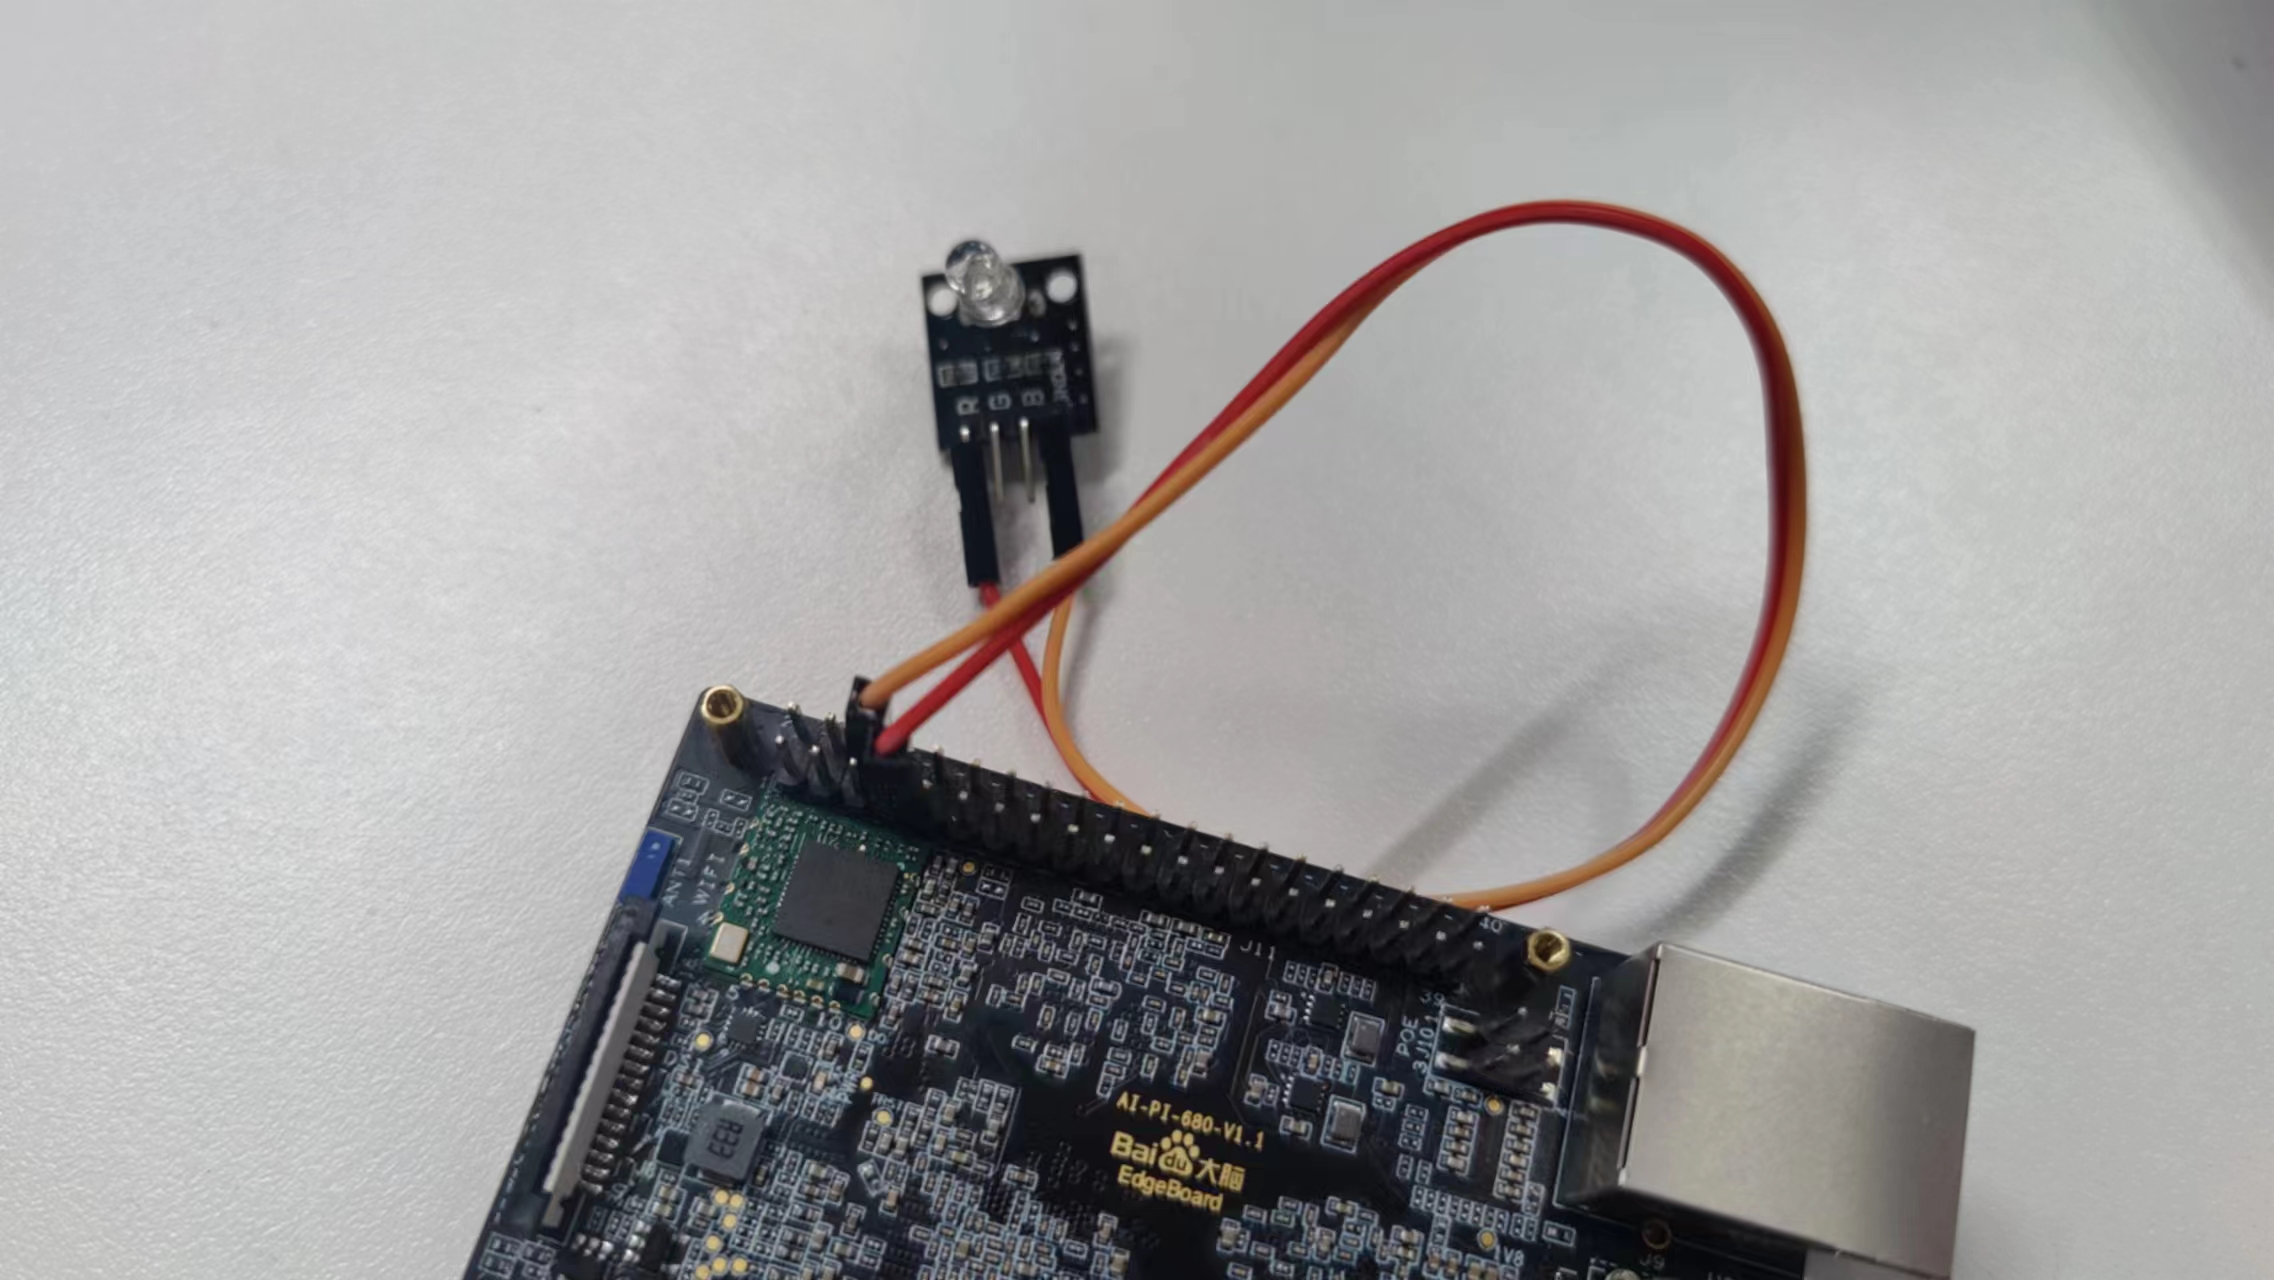
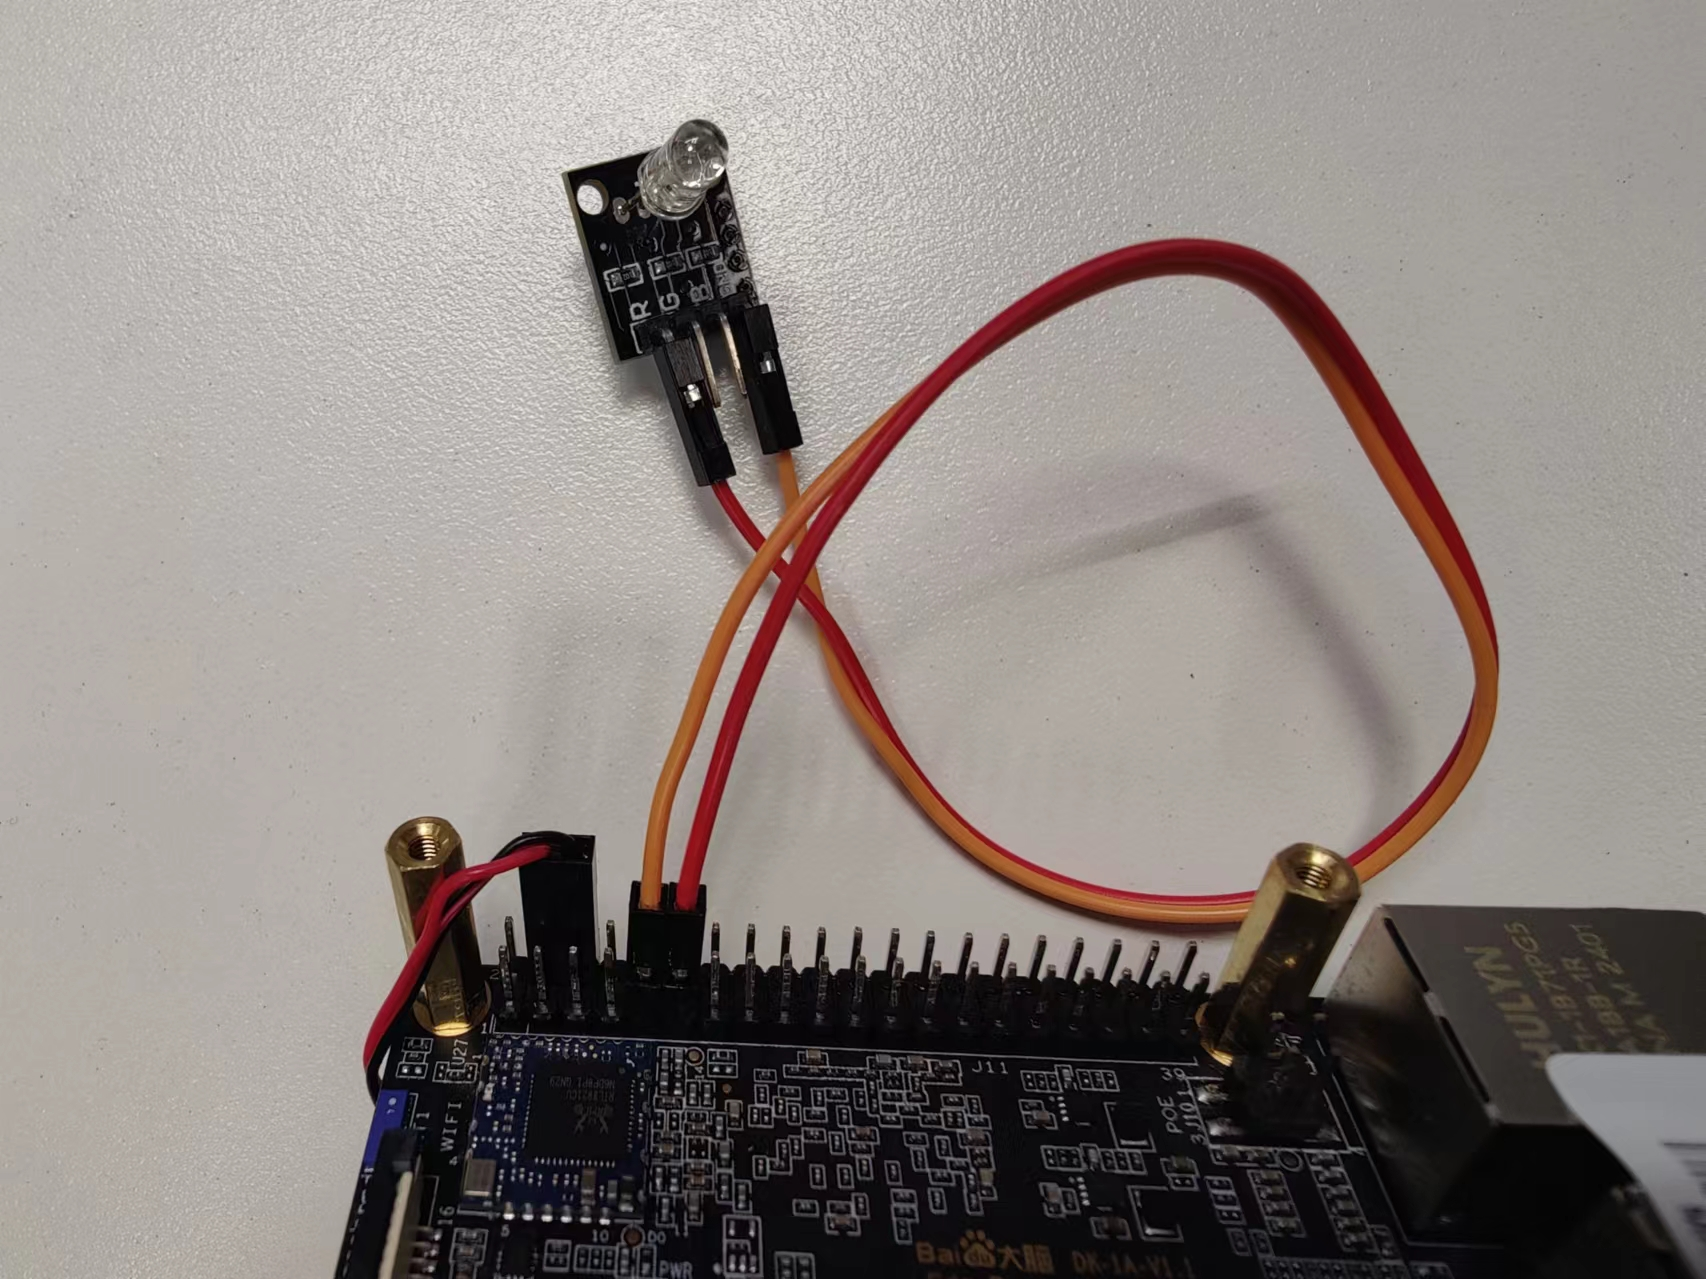
更新

diff --git a/快速开始.md b/快速开始.md
@@ -57,7 +57,7 @@ EdgeBoard DK-1A板卡板载Wi-Fi芯片，支持连接2.4G/5G无线网络。
 
 ### 例：点亮LED
 
-本例中，将LED的GND端连接在PIN6（GND）引脚上，将LED的R端连接在PIN7引脚上（LED模块上自带了1kΩ的电阻），编程控制PIN7为输出引脚，并输出高低电平来控制LED亮灭。连接如下图所示：
+本例中，将LED的GND端连接在PIN9（GND）引脚上，将LED的R端连接在PIN11引脚上（LED模块上自带了1kΩ的电阻），编程控制PIN11为输出引脚，并输出高低电平来控制LED亮灭。连接如下图所示：
 
 ![image](./images/LED连接.png)
 
@@ -73,13 +73,13 @@ sudo apt install wiringpi   # 安装wiringpi库
 ```
 
 ```shell
-gpio mode 7 out             # 设置GPIO7为输出引脚
+gpio mode 0 out             # 设置GPIO为输出引脚
 ```
 
 执行如下命令：
 
 ```shell
-gpio write 7 1              # 设置GPIO7输出高电平
+gpio write 0 1              # 设置GPIO输出高电平
 ```
 
 LED被点亮。
@@ -87,7 +87,7 @@ LED被点亮。
 执行如下命令：
 
 ```shell
-gpio write 7 0              # 设置GPIO7输出低电平
+gpio write 0 0              # 设置GPIO输出低电平
 ```
 
 LED熄灭。

diff --git a/系统相关.md b/系统相关.md
@@ -55,7 +55,7 @@ sudo reboot
             <td>PPOS1.1.2</td>
             <td><a href="https://pp-os.bj.bcebos.com/vs680/system/dk1a-generic-1.1.2-system.zip">点击下载</a></td>
             <td>ab9f4de8096e25d306813263e8c61c0b</td>
-            <td>建议使用</td>
+            <td>建议使用该版本</td>
         </tr>    
         <tr>
             <td>2024.02.05</td>
